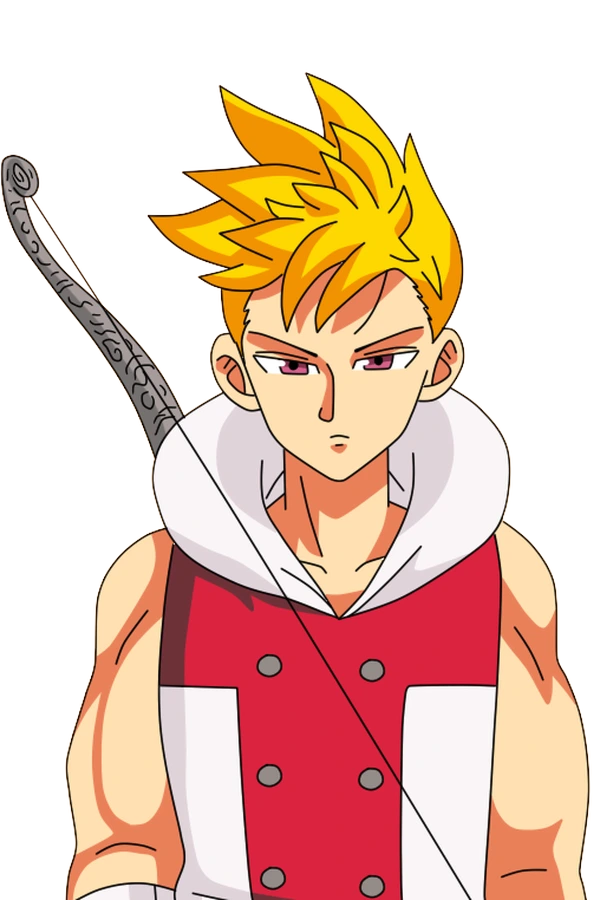
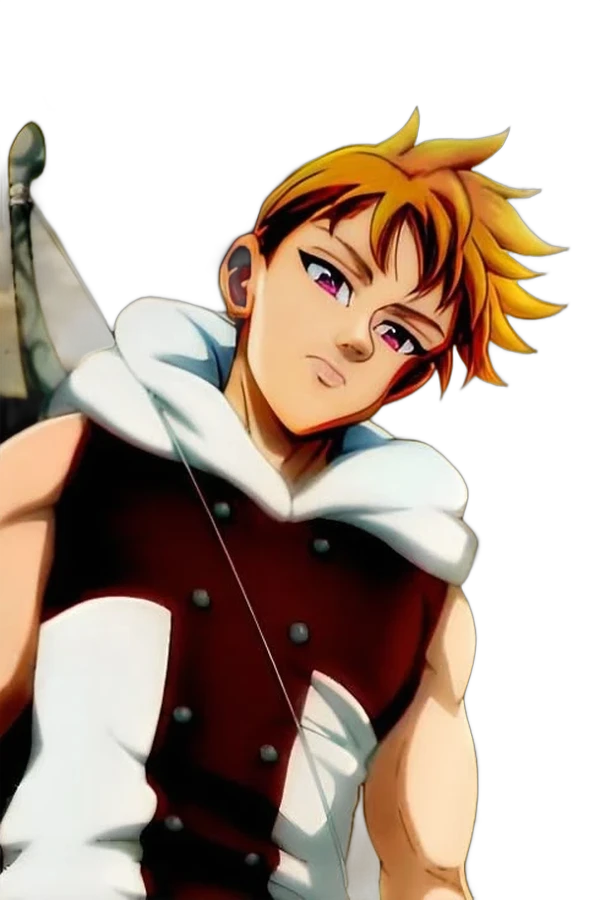
Make Escanor Mythic and give him, Lancelot and Tristan Liones the portraits the owners sent, as they asked on 2026-11-19: Escanor rises from Legendary with 4000 points and a Mythic's attack and life (5300, 19800), his holders' points counted again; each picture is cropped to the card clear of the wa

diff --git a/internal/cards/cards.go b/internal/cards/cards.go
@@ -129,17 +129,17 @@ func ByOdds(roll func() Rarity) storage.CardRoll {
 // Emilia, Kurisu, Violet Evergarden, Zero Two and Mai Sakurajima, and
 // Firefly Wedding's Satoko Kirigaya, whom the owners made Mythic (migration 94),
 // and the Four Knights' Lancelot and Tristan, whom they made Mythic too
-// (migration 101).
+// (migration 101), and Escanor, whom they made Mythic (migration 108).
 var mythicIDs = map[int64]bool{
 	246: true, 17: true, 40: true, 5: true, 40882: true, 11: true, 80: true, 126071: true, 73935: true, 30: true,
 	417: true, 1: true, 422: true, 4003: true, 72921: true, 127691: true,
 	40881: true, 126824: true, 176754: true, 137080: true, 127518: true, 88572: true, 34470: true, 90169: true, 124381: true, 127222: true,
-	298761: true, 265209: true, 249281: true,
+	298761: true, 265209: true, 249281: true, 90202: true,
 }
 
 // legendaryIDs are the Legendary cards': the leads' legendary rivals and
 // companions, Vegeta, Sasuke, Kakashi, Itachi, Levi, L, Zoro, Killua and
-// their like, Escanor and Ban, and other well known leads, Deku, Itadori,
+// their like, Ban, and other well known leads, Deku, Itadori,
 // Shinji, Kaneki, Denji, Gintoki, Natsu, Asta, Yusuke, Mob, Hanamichi,
 // Thorfinn, Rimuru and theirs, and the best known women, Rem, Rei Ayanami,
 // Power, Kaguya Shinomiya, Marin Kitagawa, Megumin, Robin, Asuka, Hitagi
@@ -148,7 +148,7 @@ var mythicIDs = map[int64]bool{
 // Seven Deadly Sins' Zeldris and Estarossa (Mael) and the Four Knights'
 // Gawain and Percival, made Legendary at their asking (migration 101).
 var legendaryIDs = map[int64]bool{
-	90202: true, 77605: true, 913: true, 13: true, 85: true, 14: true, 53901: true, 2535: true, 2423: true, 62: true,
+	77605: true, 913: true, 13: true, 85: true, 14: true, 53901: true, 2535: true, 2423: true, 62: true,
 	305: true, 727: true, 2072: true, 13767: true, 45627: true, 46494: true, 46496: true, 71: true, 75: true, 27: true,
 	28: true, 31: true, 133701: true, 126635: true, 68: true, 12: true, 88892: true, 89220: true, 129133: true,
 	129131: true, 129130: true, 6356: true, 10529: true, 4004: true, 162: true, 2075: true, 2257: true, 601: true, 10138: true,

diff --git a/internal/cards/cards_test.go b/internal/cards/cards_test.go
@@ -48,13 +48,13 @@ func TestCardNumbers(t *testing.T) {
 // rank: Son Goku is Mythic at 130, Gojo Mythic at 1, Sasuke Legendary; anyone else is at
 // most Epic, however loved.
 func TestChosenRarities(t *testing.T) {
-	if RarityOf(246, 130) != Mythic || RarityOf(17, 32) != Mythic || RarityOf(127691, 0) != Mythic || RarityOf(913, 190) != Legendary {
+	if RarityOf(246, 130) != Mythic || RarityOf(17, 32) != Mythic || RarityOf(127691, 0) != Mythic || RarityOf(90202, 50) != Mythic || RarityOf(913, 190) != Legendary {
 		t.Error("a chosen character's rarity")
 	}
 	if RarityOf(89334, 9) != Epic || RarityOf(99999, 400) != Common || RarityOf(88572, 7) != Mythic {
 		t.Errorf("Reigen at 9 = %v, an unknown at 400 = %v, Emilia = %v", RarityOf(89334, 9), RarityOf(99999, 400), RarityOf(88572, 7))
 	}
-	if len(mythicIDs) != 29 || len(legendaryIDs) != 74 || len(epicIDs) != 7 || RarityOf(298761, 900) != Mythic || RarityOf(298762, 900) != Epic {
+	if len(mythicIDs) != 30 || len(legendaryIDs) != 73 || len(epicIDs) != 7 || RarityOf(298761, 900) != Mythic || RarityOf(298762, 900) != Epic {
 		t.Errorf("chosen %d Mythic and %d Legendary", len(mythicIDs), len(legendaryIDs))
 	}
 	// The Seven Deadly Sins' knights raised (migration 101): Lancelot and
